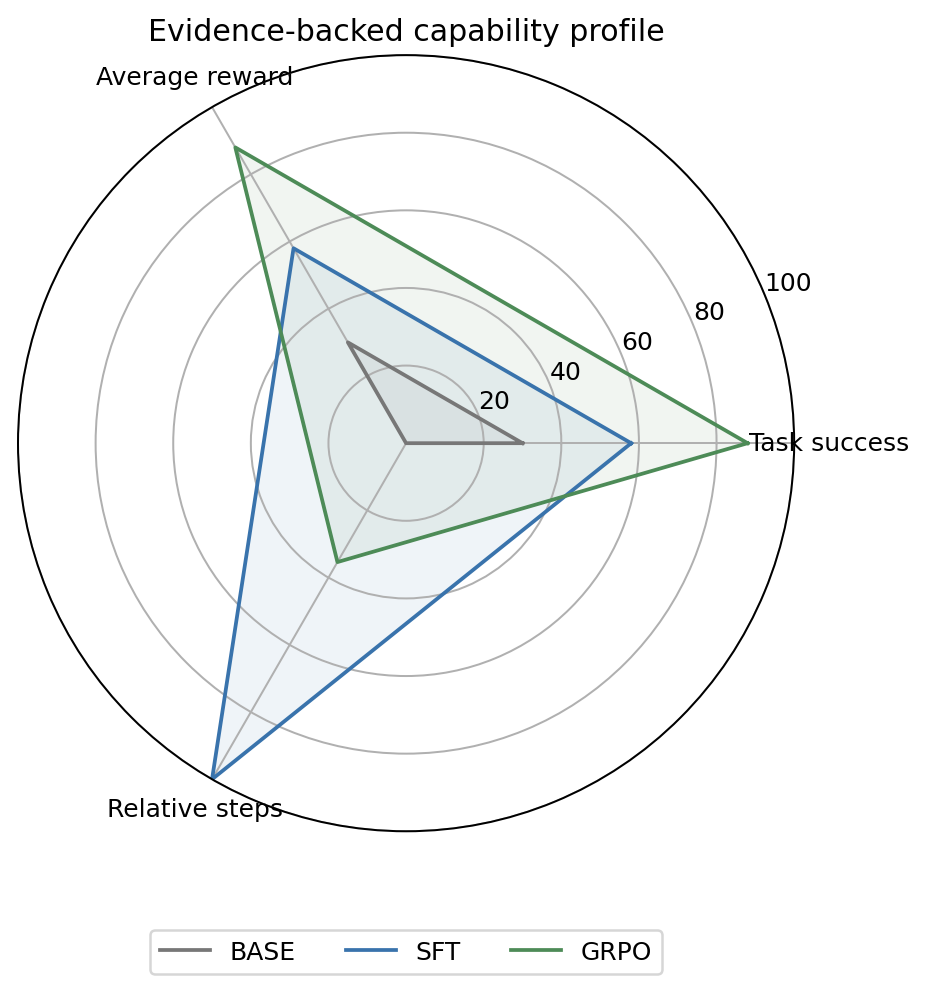
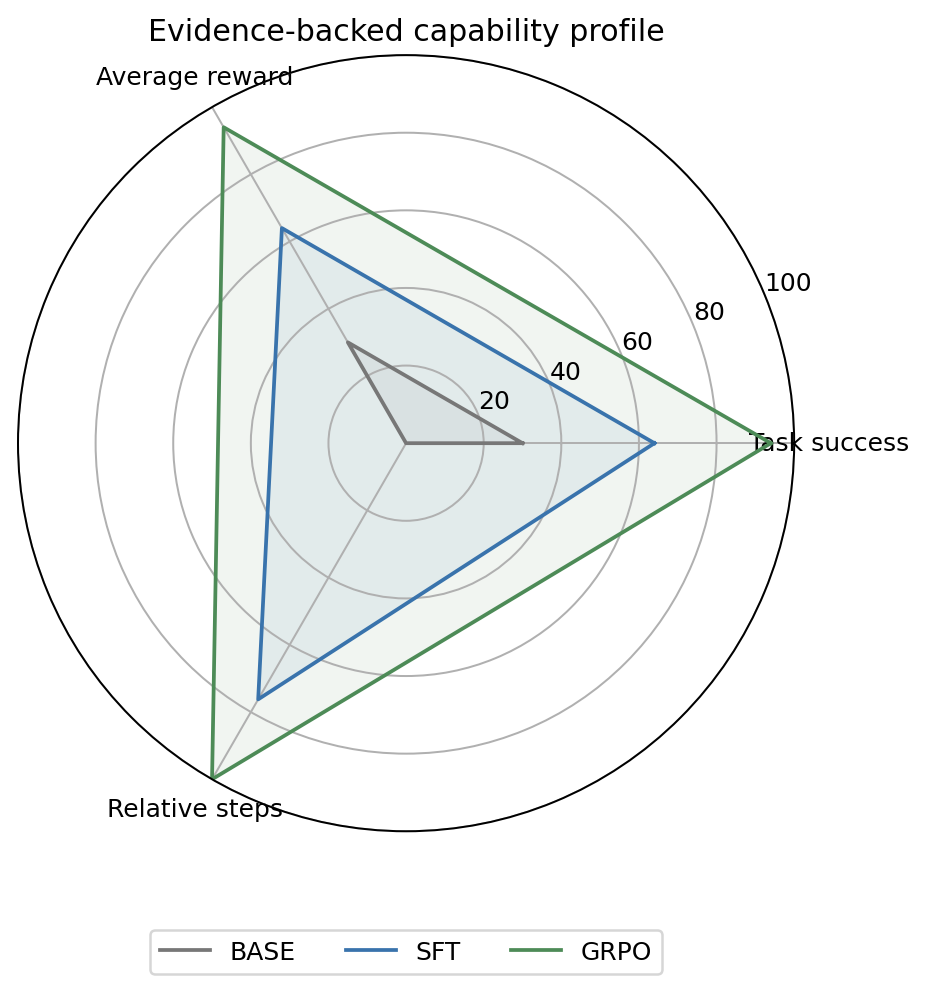
fix: score all stages with one evaluator
- Parser accepts bracketed IDs ("[24]")
- Re-score Base/SFT/GRPO: 30/64/94

diff --git a/scripts/_colab_same_evaluator_controls.py b/scripts/_colab_same_evaluator_controls.py
@@ -1,0 +1,102 @@
+"""Colab entrypoint: score Base and SFT with the corrected GRPO tool-call evaluator.
+
+The published Base 0.30 and SFT 0.58 came from src/agents/policy.py (CLICK ref=
+format), not GRPOToolPolicy, so they are not comparable to the corrected GRPO
+0.88. This reruns both controls, 50 episodes each, under the same evaluator.
+"""
+
+import os
+import subprocess
+import sys
+from pathlib import Path
+
+
+REPO = "/content/drive/MyDrive/openEnvRL"
+ARTIFACT_ROOT = f"{REPO}/artifacts/2026-10-22-same-evaluator-controls"
+SFT_MODEL = f"{REPO}/artifacts/2026-07-12-sft-full/models/sft_model"
+# Re-scored on this VM too: the Colab stack moved (Python 3.13, torch 2.11) since July.
+GRPO_CHECKPOINT = f"{REPO}/artifacts/2026-07-26-grpo-gate-r5/models/grpo_model/checkpoint-20"
+BASE_MODEL_ID = "Qwen/Qwen3.5-0.8B"
+BASE_MODEL_DIR = "/content/base_model"
+MINIWOB_ROOT = "/content/browsergym-assets"
+EPISODES = 50
+
+os.chdir(REPO)
+sys.path.insert(0, REPO)
+
+log_dir = Path(ARTIFACT_ROOT) / "logs"
+log_dir.mkdir(parents=True, exist_ok=True)
+Path(ARTIFACT_ROOT, "results").mkdir(parents=True, exist_ok=True)
+log_path = log_dir / "controls_eval_50.log"
+
+print("Installing evaluation dependencies...", flush=True)
+# ponytail: skip the HF Space git dep -- its partial clone fails ("expected 'packfile'")
+# and the native_browsergym eval backend never imports it.
+eval_reqs = Path("/content/eval_requirements.txt")
+eval_reqs.write_text(
+    "".join(line for line in Path("requirements.txt").read_text().splitlines(True)
+            if "huggingface.co/spaces" not in line and "browsergym-miniwob" not in line)
+)
+subprocess.run([sys.executable, "-m", "pip", "install", "-q", "-r", str(eval_reqs)], check=True)
+# browsergym-core 0.14.3 pins playwright==1.44 -> greenlet 3.0.3, which has no
+# Python 3.13 wheel and fails to build. Install a current playwright, then
+# browsergym without its pin.
+subprocess.run(
+    [sys.executable, "-m", "pip", "install", "-q", "playwright", "beautifulsoup4",
+     "gymnasium", "lxml", "mcp[cli]", "numpy", "pillow", "pyparsing"],
+    check=True,
+)
+subprocess.run(
+    [sys.executable, "-m", "pip", "install", "-q", "--no-deps",
+     "browsergym-core==0.14.3", "browsergym-miniwob==0.14.3"],
+    check=True,
+)
+subprocess.run([sys.executable, "-m", "playwright", "install-deps"], check=True)
+subprocess.run([sys.executable, "-m", "playwright", "install", "chromium"], check=True)
+
+# GRPOToolPolicy loads from a local directory, so materialize the base model first.
+from huggingface_hub import snapshot_download
+
+snapshot_download(BASE_MODEL_ID, local_dir=BASE_MODEL_DIR)
+
+# Child process: Playwright's sync API cannot start inside colab exec's asyncio loop.
+child = f"""
+import json
+import sys
+sys.path.insert(0, {REPO!r})
+from src.config import load_config
+from src.pipeline.run_all import run_grpo_eval_phase
+
+config = load_config("configs/default.yaml")
+config.update({{
+    "results_dir": {ARTIFACT_ROOT!r} + "/results",
+    "grpo_output_dir": {ARTIFACT_ROOT!r} + "/models/unused",
+    "miniwob_root": {MINIWOB_ROOT!r},
+    "default_eval_episodes": {EPISODES},
+}})
+for step, path in [
+    ("sft_control_50", {SFT_MODEL!r}),
+    ("base_control_50", {BASE_MODEL_DIR!r}),
+    ("grpo_r5_step20_rescore_50", {GRPO_CHECKPOINT!r}),
+]:
+    metrics = run_grpo_eval_phase(config, checkpoint_step=step, model_path=path)
+    print(f"CONTROL_METRICS {{step}}:", json.dumps(metrics), flush=True)
+"""
+
+with log_path.open("w", encoding="utf-8") as log:
+    process = subprocess.Popen(
+        [sys.executable, "-u", "-c", child],
+        cwd=REPO,
+        stdout=subprocess.PIPE,
+        stderr=subprocess.STDOUT,
+        text=True,
+        bufsize=1,
+    )
+    for line in process.stdout:
+        log.write(line)
+        log.flush()
+        print(line, end="", flush=True)
+    result = process.wait()
+
+print(f"CONTROLS_RESULT: {'PASS' if result == 0 else 'FAIL'} log -> {log_path}", flush=True)
+raise SystemExit(result)

diff --git a/scripts/build_article_analysis.py b/scripts/build_article_analysis.py
@@ -13,6 +13,7 @@ if str(ROOT) not in sys.path:
 
 from src.analysis.artifact_analysis import (
     ArtifactValidationError,
+    _metric_from_json,
     extract_representative_trace,
     load_final_grpo_episodes,
     load_manifest,
@@ -44,6 +45,8 @@ from src.analysis.report import (
 DEFAULT_SFT_ROOT = Path("artifacts/2026-07-12-sft-full")
 DEFAULT_GRPO_ROOT = Path("artifacts/2026-07-26-grpo-gate-r5")
 DEFAULT_BASE_REPORT = Path("docs/notes/2026-07-27-click-checkboxes-sft-grpo-technical-report.md")
+# Base/SFT/GRPO scored by one evaluator (GRPOToolPolicy), 50 episodes each.
+DEFAULT_CONTROLS_ROOT = Path("artifacts/2026-10-22-same-evaluator-controls")
 FORBIDDEN_OUTPUT_MARKERS = ("grpo_eval_step_20.json", "invalid intermediate grpo")
 
 
@@ -72,6 +75,7 @@ def run_analysis(
     sft_root: Path,
     grpo_root: Path,
     base_report_path: Path,
+    controls_root: Path | None = None,
 ) -> dict[str, Path]:
     _ensure_output_dir(output_dir)
     sft_metrics_path = sft_root / "results" / "sft_metrics.json"
@@ -81,7 +85,20 @@ def run_analysis(
     grpo_episodes_path = grpo_root / "results" / "grpo_eval_step_20_corrected_50_episodes.jsonl"
     grpo_manifest_path = grpo_root / "grpo_run_manifest.json"
 
-    metrics = load_stage_metrics(base_report_path, sft_metrics_path, grpo_metrics_path)
+    if controls_root is None:
+        metrics = load_stage_metrics(base_report_path, sft_metrics_path, grpo_metrics_path)
+    else:
+        results = controls_root / "results"
+        base_metrics_path = results / "grpo_eval_step_base_control_50_bracketfix.json"
+        sft_metrics_path = results / "grpo_eval_step_sft_control_50.json"
+        grpo_metrics_path = results / "grpo_eval_step_grpo_r5_step20_rescore_50.json"
+        grpo_episodes_path = results / "grpo_eval_step_grpo_r5_step20_rescore_50_episodes.jsonl"
+        base_report_path = base_metrics_path
+        metrics = {
+            "base": _metric_from_json(base_metrics_path, "base", "same_evaluator_control"),
+            "sft": _metric_from_json(sft_metrics_path, "sft", "same_evaluator_control"),
+            "grpo": _metric_from_json(grpo_metrics_path, "grpo", "same_evaluator_control"),
+        }
     records = load_final_grpo_episodes(grpo_episodes_path)
     validation = validate_episode_records(records, grpo_episodes_path, expected_count=50)
     if not reconcile_grpo_metrics(records, metrics["grpo"]):
@@ -116,7 +133,11 @@ def run_analysis(
         "required_fields": list(validation.required_fields),
         "invalid_records": [issue.__dict__ for issue in validation.invalid_records],
         "aggregate_reconciled": True,
-        "unavailable_evidence": ["Base model evaluation episode traces", "SFT model evaluation episode traces"],
+        "unavailable_evidence": (
+            ["Base model evaluation episode traces", "SFT model evaluation episode traces"]
+            if controls_root is None
+            else []
+        ),
     }
     validation_json_path = output_dir / "schema_validation.json"
     validation_md_path = output_dir / "schema_validation.md"
@@ -137,12 +158,13 @@ def build_parser() -> argparse.ArgumentParser:
     parser.add_argument("--sft-root", type=Path, default=DEFAULT_SFT_ROOT)
     parser.add_argument("--grpo-root", type=Path, default=DEFAULT_GRPO_ROOT)
     parser.add_argument("--base-report", type=Path, default=DEFAULT_BASE_REPORT)
+    parser.add_argument("--controls-root", type=Path, default=DEFAULT_CONTROLS_ROOT)
     return parser
 
 
 def main(argv: Sequence[str] | None = None) -> int:
     args = build_parser().parse_args(argv)
-    run_analysis(args.output_dir, args.sft_root, args.grpo_root, args.base_report)
+    run_analysis(args.output_dir, args.sft_root, args.grpo_root, args.base_report, args.controls_root)
     print(f"article analysis written to {args.output_dir}")
     return 0
 

diff --git a/src/analysis/report.py b/src/analysis/report.py
@@ -70,9 +70,9 @@ def build_article_report(
         "## Final GRPO reliability audit",
         f"The corrected final evaluation contains `{episode_summary.get('success_count', 0)}/{episode_summary.get('episode_count', 0)}` successful episodes and `{episode_summary.get('failure_count', 0)}` failures.",
         failure_text,
-        "These are deterministic classifications of observed traces, not inferred model intentions. The audit covers final GRPO only; Base and SFT episode traces are unavailable.",
+        "These are deterministic classifications of observed traces, not inferred model intentions. The audit covers final GRPO only.",
         "## Interpretability boundary",
-        "This is behavioral trace interpretability and procedural transparency, not neuron-level mechanistic interpretability. Durable Base/SFT model-evaluation traces are unavailable, so no cross-stage action distributions are claimed.",
+        "This is behavioral trace interpretability and procedural transparency, not neuron-level mechanistic interpretability. No cross-stage action distributions are claimed.",
         "## Reproducibility artifacts",
         "\n".join(figure_lines),
         *build_analysis_sections(),

diff --git a/src/analysis/plots.py b/src/analysis/plots.py
@@ -338,7 +338,8 @@ def plot_episode_failure_modes(summary: Mapping[str, Any], output_path: Path) ->
     bars = axis.bar(labels, values, color=["#d9973f", "#c77745", "#b85c5c"], width=0.62)
     axis.set_ylim(0, max(values + [1]) + 1)
     axis.set_ylabel("Failed episodes")
-    axis.set_title("Why the 6 final-GRPO episodes failed", fontsize=15, fontweight="bold")
+    axis.set_title(f"Why the {sum(values)} final-GRPO episodes failed", fontsize=15, fontweight="bold")
+    axis.yaxis.get_major_locator().set_params(integer=True)
     for bar, value in zip(bars, values):
         axis.text(bar.get_x() + bar.get_width() / 2, value + 0.08, str(value), ha="center", fontweight="bold")
     axis.text(0.5, -0.23, "Deterministic categories from requested labels, visible controls, executed actions, and terminal state.",

diff --git a/tests/agents/test_grpo_tool_policy.py b/tests/agents/test_grpo_tool_policy.py
@@ -35,6 +35,12 @@ def test_grpo_tool_policy_parses_every_tool_call_in_order():
     ]
 
 
+def test_grpo_tool_policy_accepts_bracketed_ids():
+    completion = "<tool_call>\n<function=click>\n<parameter=target>\n[24]\n</parameter>\n</function>\n</tool_call>"
+
+    assert GRPOToolPolicy.parse_completion_actions(completion, "") == ["click('24')"]
+
+
 def test_grpo_tool_policy_resolves_visible_control_names_to_ids():
     completion = """<tool_call><function=click><parameter=target>7A</parameter></function></tool_call>
     <tool_call><function=click><parameter=target>Submit</parameter></function></tool_call>"""

diff --git a/src/agents/grpo_tool_policy.py b/src/agents/grpo_tool_policy.py
@@ -47,7 +47,8 @@ class GRPOToolPolicy:
         }
         actions: list[str] = []
         for target_text in _TOOL_CALL_RE.findall(text):
-            target = target_text.strip().strip("'\"")
+            # Base model copies the observation's "[24]" form; accept it as the bare ID.
+            target = target_text.strip().strip("'\"[]")
             ref = target if target.isdigit() else visible_controls.get(target)
             if ref is not None:
                 actions.append(f"click('{ref}')")

diff --git a/figures/article_analysis/README.md b/figures/article_analysis/README.md
@@ -4,11 +4,12 @@ Tracked publication figures generated from existing artifacts only.
 
 | Figure | Meaning | Source |
 | --- | --- | --- |
-| `figure1_stage_progression.png` | Base 30% → SFT 58% → corrected final GRPO 88% | Stage metrics and technical report |
-| `figure5_final_episode_summary.png` | 50 final-GRPO episodes; 44 success / 6 failure | Corrected final per-episode JSONL |
-| `figure6_final_episode_failure_modes.png` | Six failures: 2 no Submit, 2 premature Submit, 2 wrong selection | Corrected final per-episode JSONL |
-| `figure7_capability_radar.png` | Shared measured capability profile with caveats | Stage metrics and technical report |
+| `figure1_stage_progression.png` | Base 30% → SFT 64% → GRPO 94%, one evaluator, 50 episodes each | `artifacts/2026-10-22-same-evaluator-controls/results/` |
+| `figure5_final_episode_summary.png` | 50 GRPO re-score episodes; 47 success / 3 failure | Re-score per-episode JSONL |
+| `figure6_final_episode_failure_modes.png` | Three failures: 0 no Submit, 1 premature Submit, 2 wrong selection | Re-score per-episode JSONL |
+| `figure7_capability_radar.png` | Shared measured capability profile with caveats | Same-evaluator stage metrics |
 
+Generated by `scripts/build_article_analysis.py` (default `--controls-root`).
 Runtime reports, captions, normalized JSON, and schema-validation outputs remain
 under ignored `results/article_analysis/`.
 

diff --git a/README.md b/README.md
@@ -30,25 +30,15 @@ Completed so far:
 - LoRA SFT trained on Colab `T4` (Qwen3.5-0.8B, unsloth, r=16, 60 steps, ~3.5 epochs)
 - SFT evaluated against baseline on the same `50`-episode profile: success rate `0.30` -> `0.58`, average reward `0.30` -> `0.58`, average steps `4.36` -> `1.4`
 
-Current baseline result:
+Current result (2026-10-22, one evaluator, `50` fresh episodes per stage):
 
-- profile: `50` evaluation episodes
-- success rate: `0.30`
-- average reward: `0.30`
-- average steps: `4.36`
+| Stage | Success | Average steps |
+| --- | ---: | ---: |
+| Base | `0.30` | `6.58` |
+| SFT | `0.64` | `3.76` |
+| GRPO checkpoint-20 | `0.94` | `2.88` |
 
-Current SFT result:
-
-- profile: `50` evaluation episodes
-- success rate: `0.58`
-- average reward: `0.58`
-- average steps: `1.42`
-
-Pending next tasks:
-
-- increase `max_completion_length` and add tool-use instructions to system prompt for GRPO
-- scale GRPO to full run
-- compare baseline vs SFT vs GRPO in final analysis
+All three come from `GRPOToolPolicy` via `scripts/_colab_same_evaluator_controls.py`. The status bullets above (and the SFT `0.58`) are earlier measurements from the original `CLICK ref=` evaluator, kept as history. Full write-up: `docs/notes/2026-07-27-click-checkboxes-sft-grpo-technical-report.md`.
 
 GRPO smoke test status:
 
